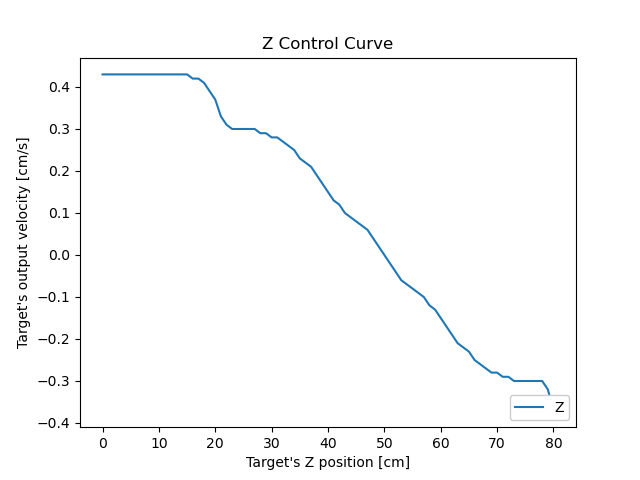
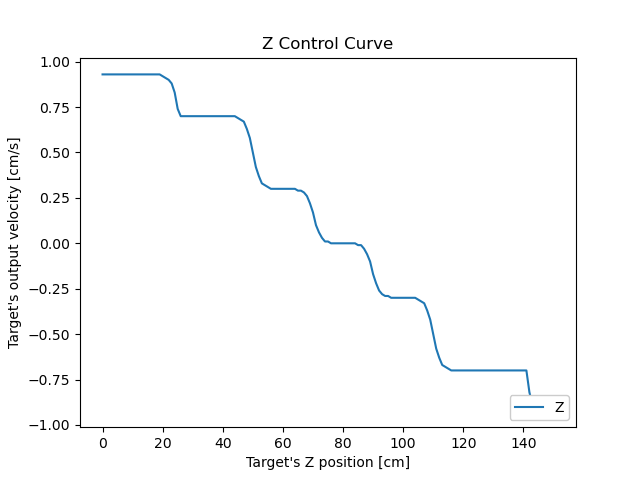
minor change

diff --git a/Controller.py b/Controller.py
@@ -45,14 +45,14 @@ class DroneController:
         self.GetController().add_linguistic_variable("y", lv_Y)
 
         Input_Z = []
-        Input_Z.append(sf.FuzzySet(function=sf.Sigmoid_MF(80, 1), term = "too_far", verbose = True))
-        Input_Z.append(sf.FuzzySet(function=sf.Gaussian_MF(70, 5), term = "far", verbose = True))
-        Input_Z.append(sf.FuzzySet(function=sf.Gaussian_MF(60, 5), term = "slightly_far", verbose = True))
-        Input_Z.append(sf.FuzzySet(function=sf.Gaussian_MF(50, 5), term = "perfect", verbose = True))
-        Input_Z.append(sf.FuzzySet(function=sf.Gaussian_MF(40, 5), term = "slightly_close", verbose = True))
-        Input_Z.append(sf.FuzzySet(function=sf.Gaussian_MF(30, 5), term = "close", verbose = True))
+        Input_Z.append(sf.FuzzySet(function=sf.Sigmoid_MF(150, 1), term = "too_far", verbose = True))
+        Input_Z.append(sf.FuzzySet(function=sf.Gaussian_MF(120, 5), term = "far", verbose = True))
+        Input_Z.append(sf.FuzzySet(function=sf.Gaussian_MF(100, 5), term = "slightly_far", verbose = True))
+        Input_Z.append(sf.FuzzySet(function=sf.Gaussian_MF(80, 5), term = "perfect", verbose = True))
+        Input_Z.append(sf.FuzzySet(function=sf.Gaussian_MF(60, 5), term = "slightly_close", verbose = True))
+        Input_Z.append(sf.FuzzySet(function=sf.Gaussian_MF(40, 5), term = "close", verbose = True))
         Input_Z.append(sf.FuzzySet(function=sf.InvSigmoid_MF(20, 0.8), term = "too_close", verbose = True))
-        lv_Z = sf.LinguisticVariable(Input_Z, concept = "Difference in marker distance in longittual axis", universe_of_discourse = [0, 80])
+        lv_Z = sf.LinguisticVariable(Input_Z, concept = "Difference in marker distance in longittual axis", universe_of_discourse = [0, 150])
         self.GetController().add_linguistic_variable("z", lv_Z)
 
         Input_Theta = []
@@ -91,14 +91,14 @@ class DroneController:
     
     
         Outputs_Z = []
-        Outputs_Z.append(sf.FuzzySet(points=[[-0.5, 1.0], [-0.3, 0.0]], term = "fast_reverse"))
-        Outputs_Z.append(sf.FuzzySet(function=sf.Triangular_MF(-0.5, -0.3, -0.1), term = "reverse"))
-        Outputs_Z.append(sf.FuzzySet(function=sf.Triangular_MF(-0.3, -0.1, -0.0), term = "slow_reverse"))
-        Outputs_Z.append(sf.FuzzySet(function=sf.Gaussian_MF(0, 0.05), term = "stop"))
-        Outputs_Z.append(sf.FuzzySet(function=sf.Triangular_MF(0.0, 0.1, 0.3), term = "slow_forward"))
-        Outputs_Z.append(sf.FuzzySet(function=sf.Triangular_MF(0.1, 0.3, 0.5), term = "forward"))
-        Outputs_Z.append(sf.FuzzySet(points=[[0.3, 0.0], [0.5, 1.0]], term = "fast_forward"))
-        lv_Z = sf.LinguisticVariable(Outputs_Z, concept = "Velocity in longitual(z) axis", universe_of_discourse = [-0.5, 0.5])
+        Outputs_Z.append(sf.FuzzySet(points=[[-1.0, 1.0], [-0.8, 0.0]], term = "fast_reverse"))
+        Outputs_Z.append(sf.FuzzySet(function=sf.Triangular_MF(-1.0, -0.7, -0.4), term = "reverse"))
+        Outputs_Z.append(sf.FuzzySet(function=sf.Triangular_MF(-0.6, -0.3, -0.0), term = "slow_reverse"))
+        Outputs_Z.append(sf.FuzzySet(function=sf.Gaussian_MF(0, 0.1), term = "stop"))
+        Outputs_Z.append(sf.FuzzySet(function=sf.Triangular_MF(0.0, 0.3, 0.6), term = "slow_forward"))
+        Outputs_Z.append(sf.FuzzySet(function=sf.Triangular_MF(0.4, 0.7, 1.0), term = "forward"))
+        Outputs_Z.append(sf.FuzzySet(points=[[0.8, 0.0], [1.0, 1.0]], term = "fast_forward"))
+        lv_Z = sf.LinguisticVariable(Outputs_Z, concept = "Velocity in longitual(z) axis", universe_of_discourse = [-1.0, 1.0])
         self.GetController().add_linguistic_variable("output_z", lv_Z)
     
         Outputs_Theta = []

diff --git a/main.py b/main.py
@@ -22,14 +22,14 @@ def main():
     #     drone.End()
     #     # cv.destroyAllWindows()
         Outputs_Z = []
-        Outputs_Z.append(sf.FuzzySet(points=[[-0.5, 1.0], [-0.3, 0.0]], term = "fast_reverse"))
-        Outputs_Z.append(sf.FuzzySet(function=sf.Triangular_MF(-0.5, -0.3, -0.1), term = "reverse"))
-        Outputs_Z.append(sf.FuzzySet(function=sf.Triangular_MF(-0.3, -0.1, -0.0), term = "slow_reverse"))
-        Outputs_Z.append(sf.FuzzySet(function=sf.Gaussian_MF(0, 0.05), term = "stop"))
-        Outputs_Z.append(sf.FuzzySet(function=sf.Triangular_MF(0.0, 0.1, 0.3), term = "slow_forward"))
-        Outputs_Z.append(sf.FuzzySet(function=sf.Triangular_MF(0.1, 0.3, 0.5), term = "forward"))
-        Outputs_Z.append(sf.FuzzySet(points=[[0.3, 0.0], [0.5, 1.0]], term = "fast_forward"))
-        lv_Z = sf.LinguisticVariable(Outputs_Z, concept = "Velocity in longitual(z) axis", universe_of_discourse = [-0.5, 0.5])
+        Outputs_Z.append(sf.FuzzySet(points=[[-1.0, 1.0], [-0.8, 0.0]], term = "fast_reverse"))
+        Outputs_Z.append(sf.FuzzySet(function=sf.Triangular_MF(-1.0, -0.7, -0.4), term = "reverse"))
+        Outputs_Z.append(sf.FuzzySet(function=sf.Triangular_MF(-0.6, -0.3, -0.0), term = "slow_reverse"))
+        Outputs_Z.append(sf.FuzzySet(function=sf.Gaussian_MF(0, 0.1), term = "stop"))
+        Outputs_Z.append(sf.FuzzySet(function=sf.Triangular_MF(0.0, 0.3, 0.6), term = "slow_forward"))
+        Outputs_Z.append(sf.FuzzySet(function=sf.Triangular_MF(0.4, 0.7, 1.0), term = "forward"))
+        Outputs_Z.append(sf.FuzzySet(points=[[0.8, 0.0], [1.0, 1.0]], term = "fast_forward"))
+        lv_Z = sf.LinguisticVariable(Outputs_Z, concept = "Velocity in longitual(z) axis", universe_of_discourse = [-1.0, 1.0])
         lv_Z.plot()
 if __name__ == '__main__':
     main()
